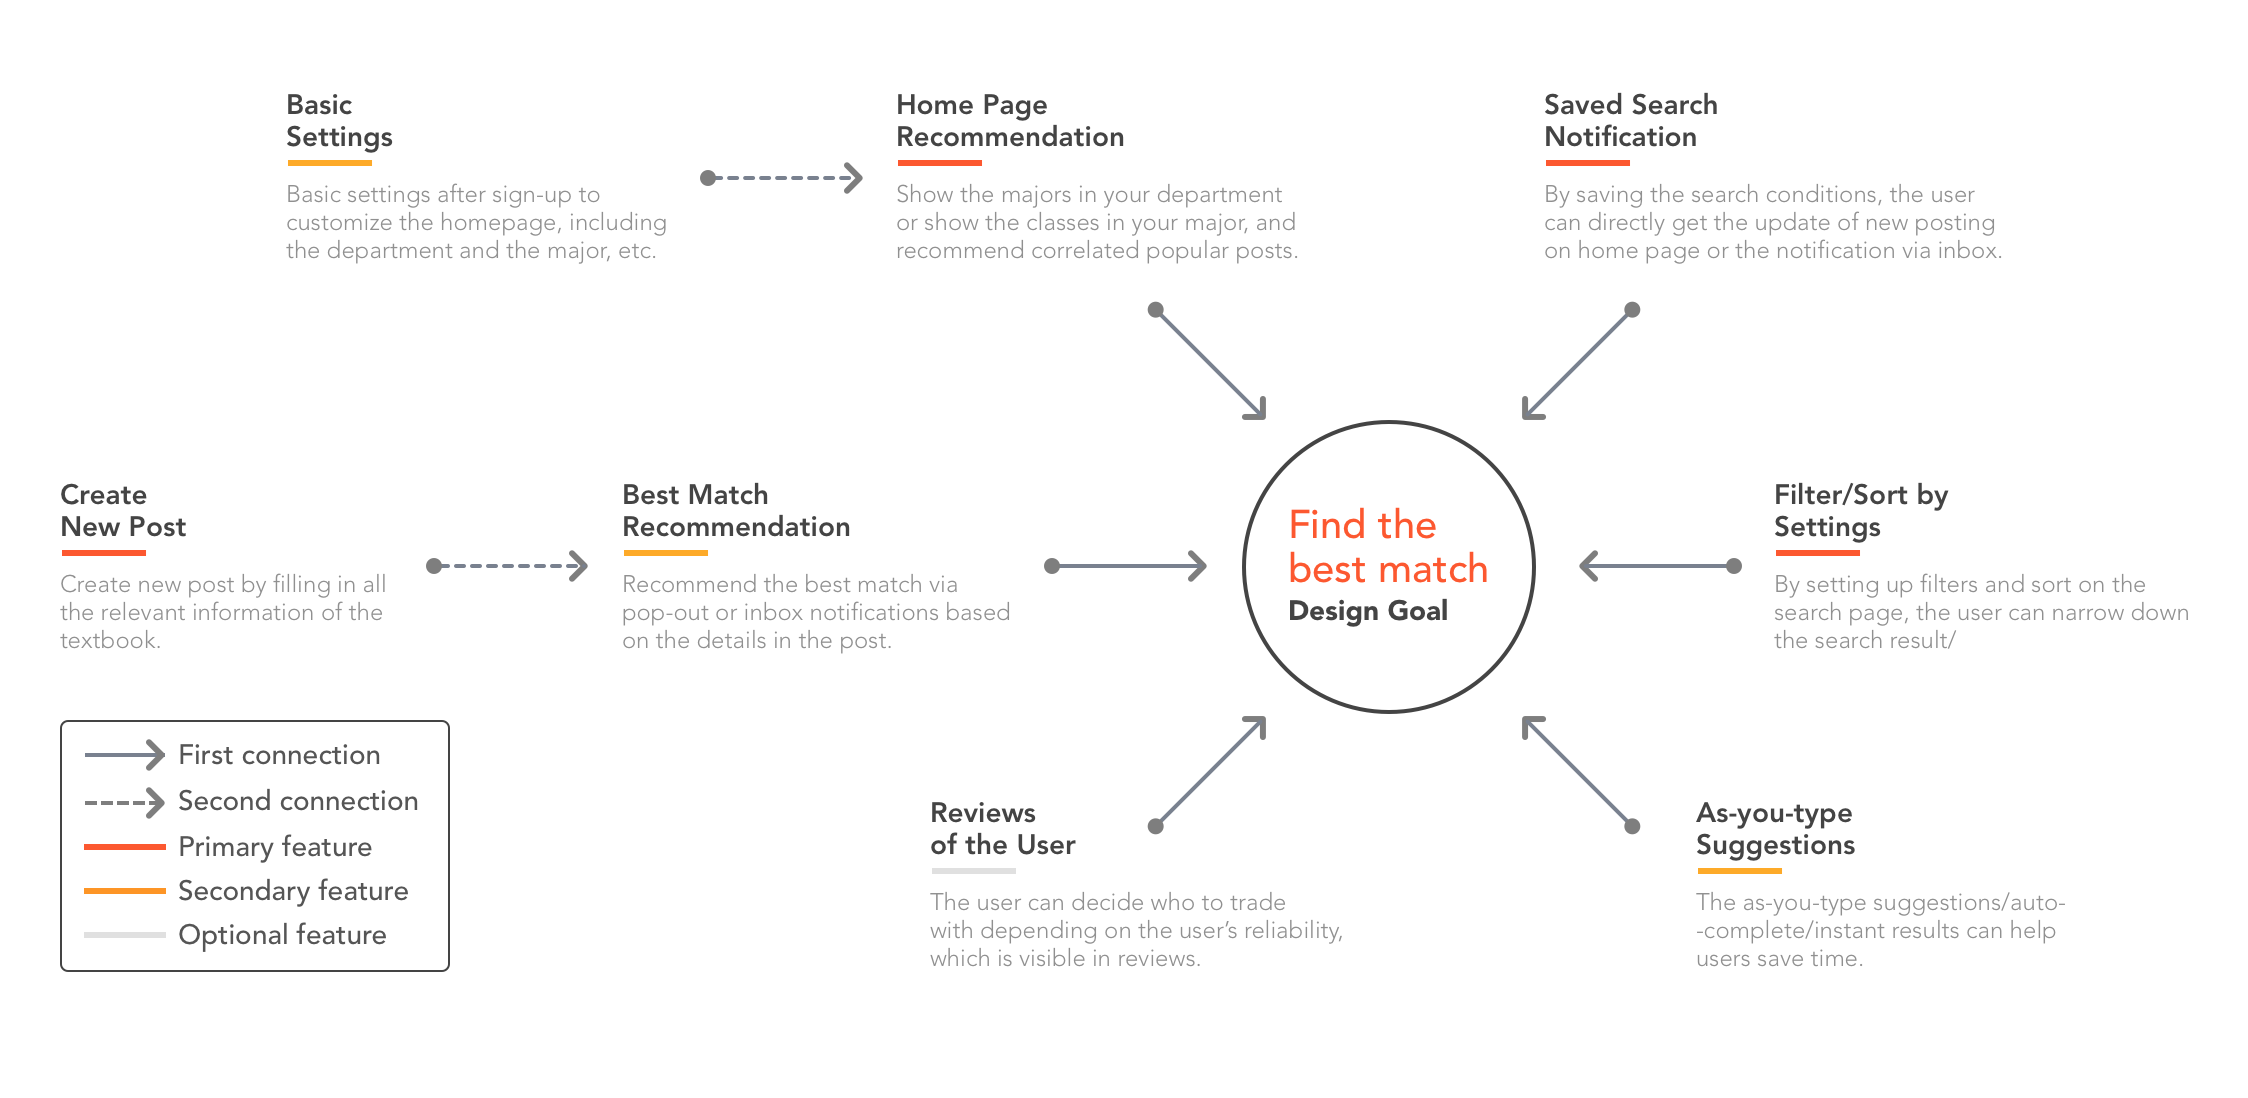
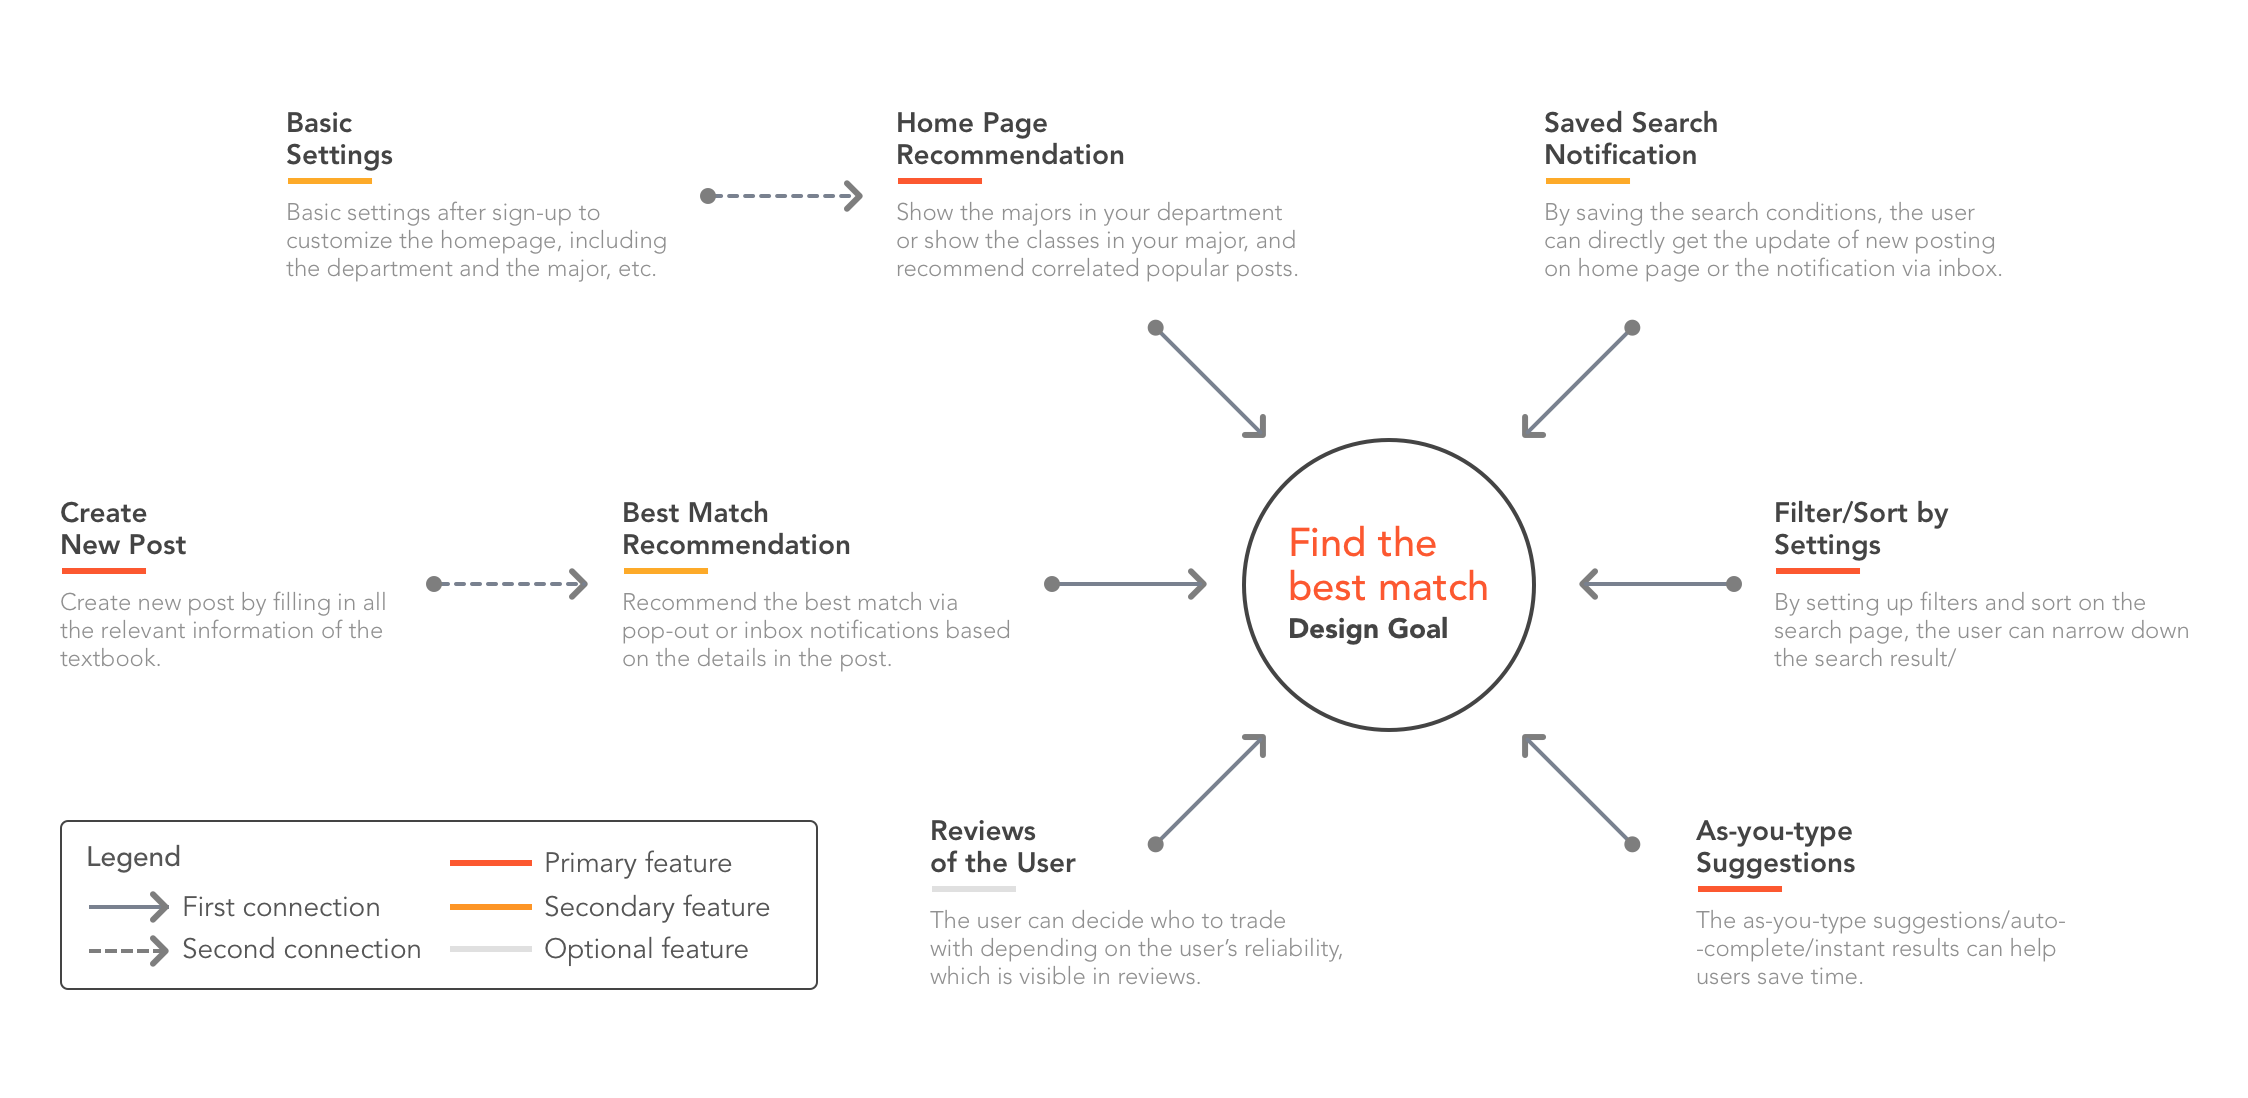
fix
fix

diff --git a/ubooks.html b/ubooks.html
@@ -404,12 +404,13 @@
 					</div><br><br>
 					<p><h3>Decisions</h3></p>
 					<p class="description pb-3">
-						To specify the frustrations and needs, I performed <b class="bolder">7 in-depth interviews</b> by asking the following 5 questions: 
+						To achieve the design goal of helping users find the best match efficiently, I decided to proceed with <b class="bolder">4 primary features</b> and <b class="bolder">3 secondary features</b>, as shown in figure 3. 
 					</p>
 					<div class="text-center">
 						<img src="img/ubooks/decision.png" alt="#" class="img-responsive img-centered" />
 						<br><br><p class="figures"><b>figure 3.</b>Design goal and my focus</p>
-					</div>
+					</div><br><br>
+					<p><h3>High-fidelity prototyping</h3></p>
 				</div>
 			</div>
 		</div>
